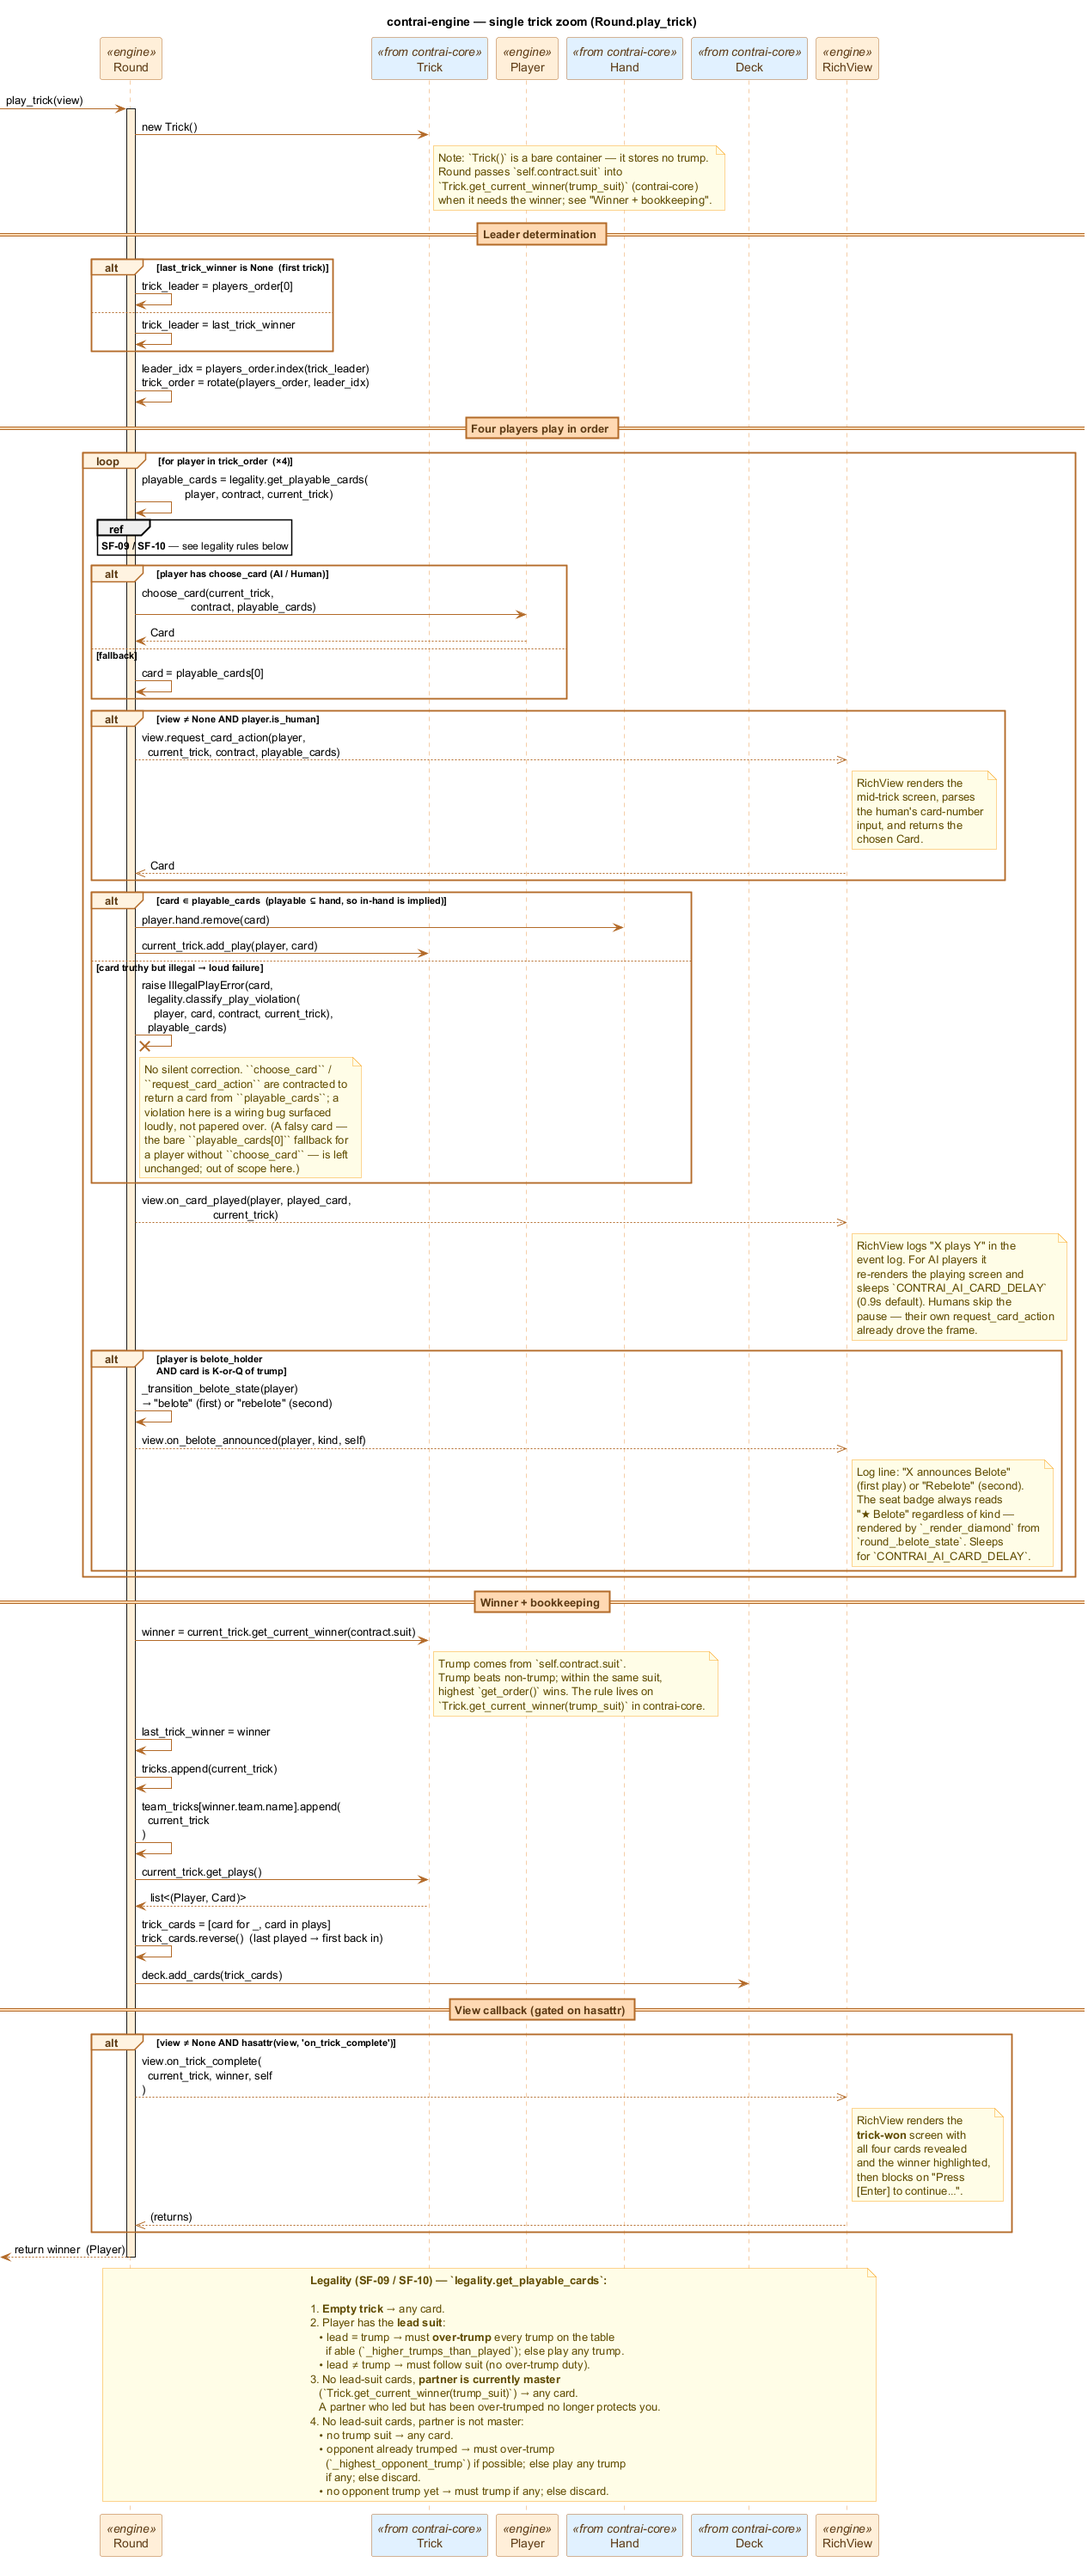
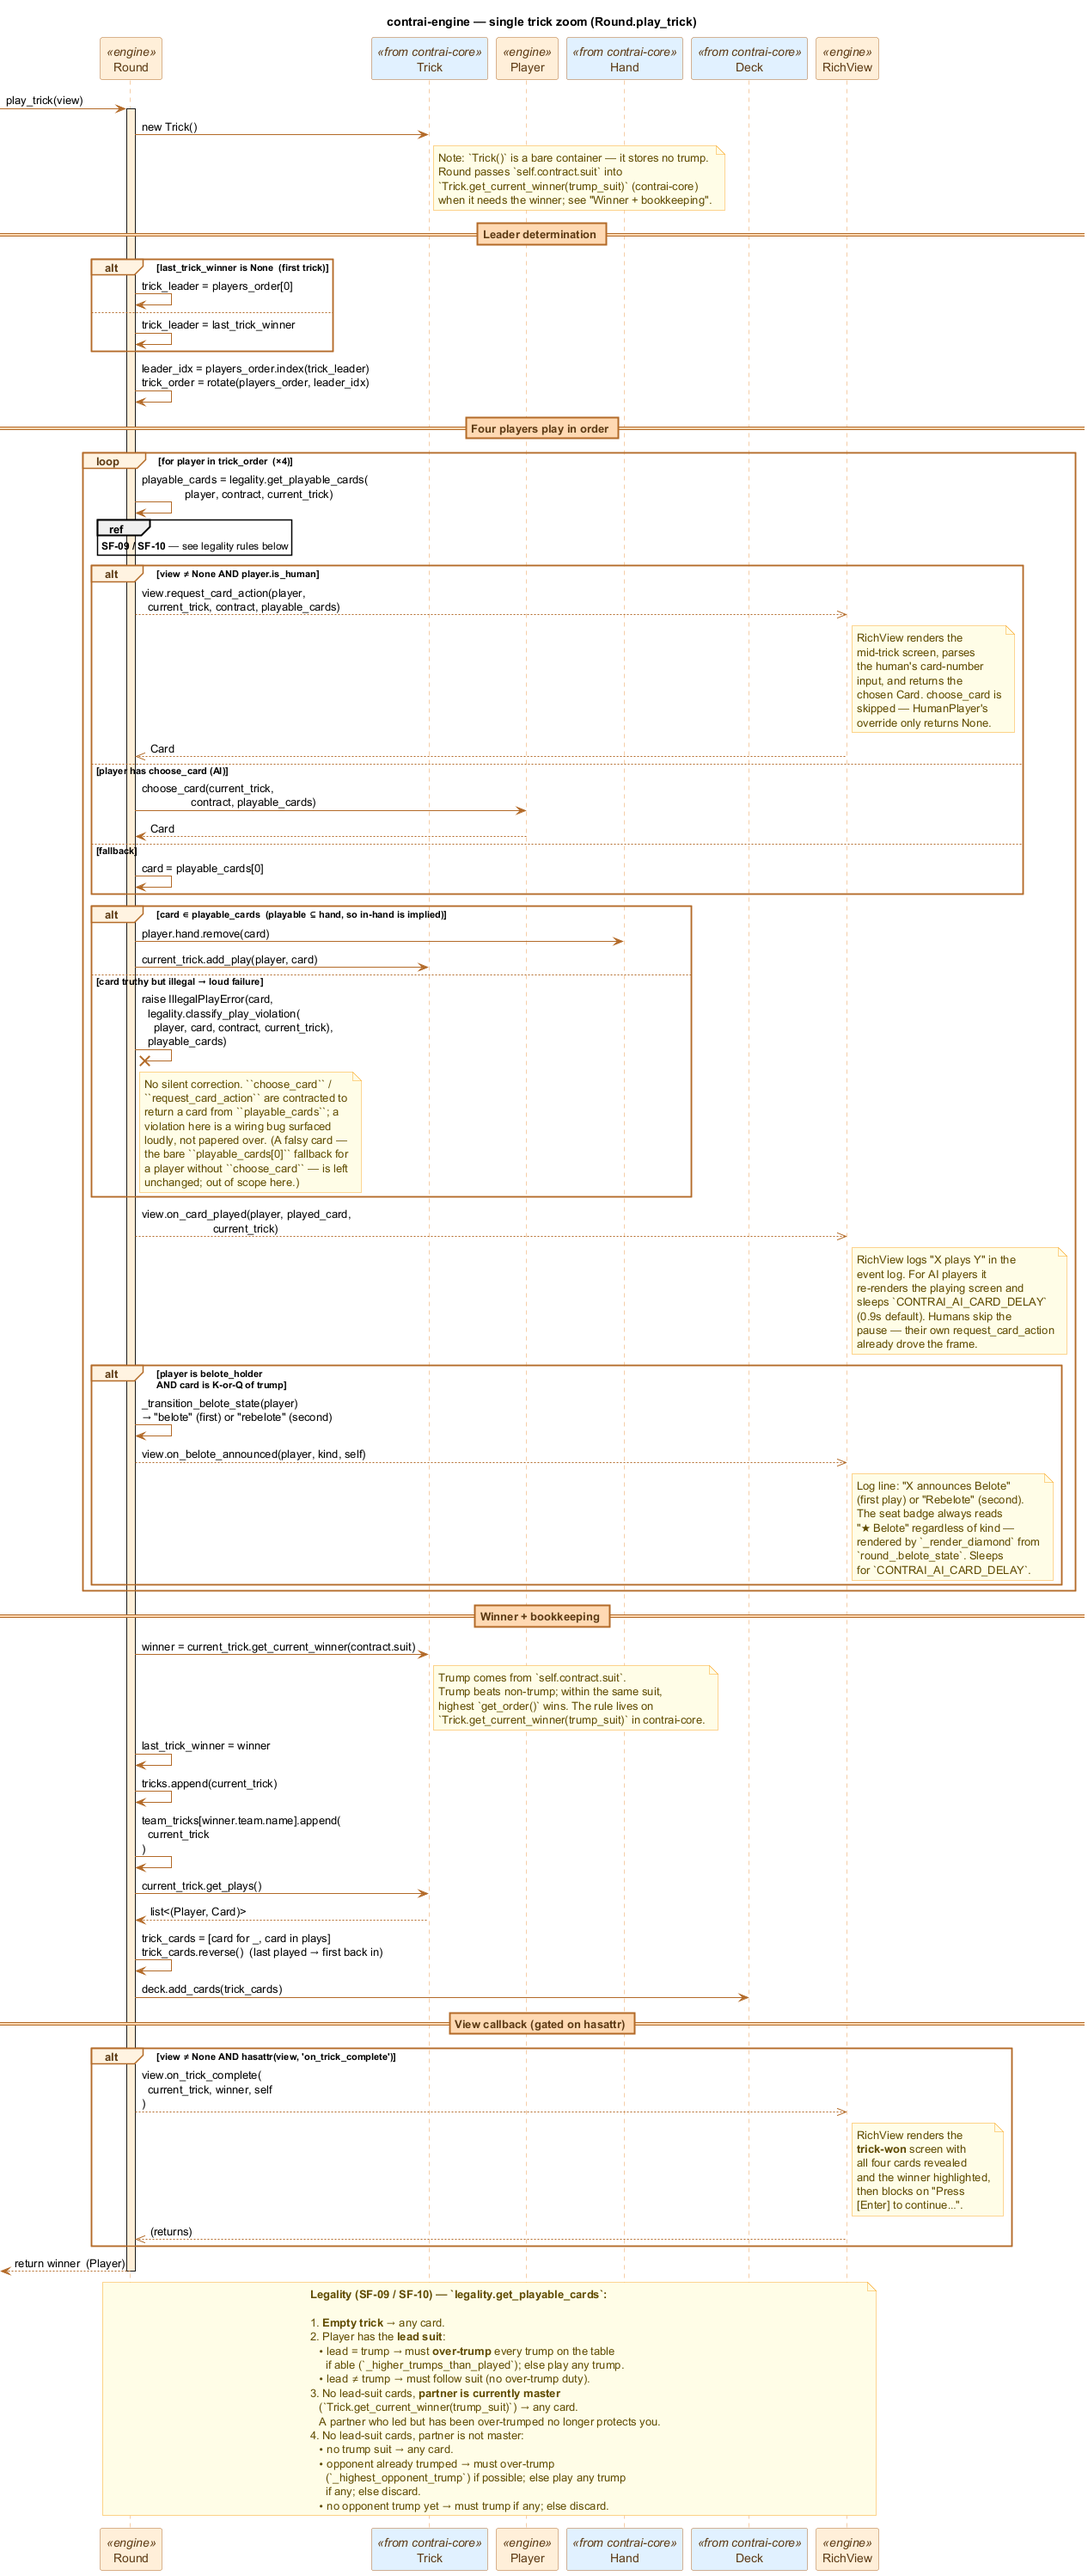
refactor(engine): skip choose_card for humans in the trick loop
Source a human's card straight from the view; only AI/viewless players
go through choose_card. Previously play_trick called HumanPlayer.choose_card
(which always returns None) and immediately overwrote it with the view's
result - a wasted call. Behavior is unchanged. Update seq_trick.puml to
match and add a Round test covering the human/view card path.

diff --git a/packages/contrai-engine/tests/test_model/test_round.py b/packages/contrai-engine/tests/test_model/test_round.py
@@ -22,11 +22,12 @@ from contrai_core import Hand
 from contrai_core.bid import ContractBid, PassBid
 from contrai_core.card import Card
 from contrai_core.contract import Contract
+from contrai_core.team import Team
 from contrai_core.exceptions import IllegalPlayError, PlayRuleViolation
 from contrai_core.trick import Trick
 from contrai_core.types import Rank, Suit
 
-from contrai_engine.model.player import HumanPlayer, wire_to_bid
+from contrai_engine.model.player import AiPlayer, HumanPlayer, wire_to_bid
 from contrai_engine.model.round import Round
 
 
@@ -95,6 +96,66 @@ class TestPlayTrickRejectsIllegalCard:
         assert excinfo.value.card is e_illegal
         assert excinfo.value.reason == PlayRuleViolation.MUST_FOLLOW_SUIT
         assert set(excinfo.value.legal_cards) == {Card(Suit.HEARTS, Rank.ACE)}
+
+
+class TestPlayTrickHumanUsesView:
+    """A human's card is sourced from the view, never from
+    ``HumanPlayer.choose_card`` (which only returns None by design)."""
+
+    def test_human_card_comes_from_view_not_choose_card(self):
+        human = HumanPlayer("H", "North")
+        east = AiPlayer("E", "East")
+        south = AiPlayer("S", "South")
+        west = AiPlayer("W", "West")
+        order = [human, east, south, west]
+        ns = Team("North-South", [human, south])
+        ew = Team("East-West", [east, west])
+        for p in (human, south):
+            p.team = ns
+        for p in (east, west):
+            p.team = ew
+
+        contract = _contract(human, 100, Suit.SPADES)
+        # One heart each so following suit is trivial; human leads.
+        cards = {
+            human: Card(Suit.HEARTS, Rank.KING),
+            east: Card(Suit.HEARTS, Rank.SEVEN),
+            south: Card(Suit.HEARTS, Rank.EIGHT),
+            west: Card(Suit.HEARTS, Rank.NINE),
+        }
+        for player, card in cards.items():
+            player.hand = Hand([card])
+
+        class _StubDeck:
+            def add_cards(self, cards):
+                pass
+
+        round_ = Round(order, dealer=human, deck=_StubDeck(), round_number=1)
+        round_.contract = contract
+
+        # Spy: the human's choose_card must NOT be called on the view path.
+        human_calls = []
+        human.choose_card = (  # type: ignore[method-assign]
+            lambda *args, _calls=human_calls: _calls.append(args)
+        )
+        # Bots play their single legal card straight through choose_card.
+        for player in (east, south, west):
+            player.choose_card = (  # type: ignore[method-assign]
+                lambda trick, c, playable, _card=cards[player]: _card
+            )
+
+        view_calls = []
+
+        class _SpyView:
+            def request_card_action(self, player, trick, contract, playable):
+                view_calls.append(player)
+                return cards[player]
+
+        round_.play_trick(view=_SpyView())
+
+        assert human_calls == []  # choose_card bypassed for the human
+        assert view_calls == [human]  # the view drove the human's turn
+        assert cards[human] not in human.hand  # the chosen card was played
 
 
 # ---------------------------------------------------------------------------

diff --git a/packages/contrai-engine/src/contrai_engine/model/round/round.py b/packages/contrai-engine/src/contrai_engine/model/round/round.py
@@ -258,17 +258,22 @@ class Round:
                 player, self.contract, self.current_trick
             )
 
-            if hasattr(player, 'choose_card'):
-                # AI player or player with choose_card method
+            # Source the card. A human's input is driven by the view —
+            # the model can't block on terminal I/O under MVC — so we
+            # ask the view directly and never call choose_card, whose
+            # HumanPlayer override only returns None. AI players (and any
+            # viewless/headless player) are asked via choose_card, with a
+            # bare first-playable fallback for objects that lack it.
+            if view is not None and getattr(player, 'is_human', False):
+                card = view.request_card_action(
+                    player, self.current_trick, self.contract, playable_cards
+                )
+            elif hasattr(player, 'choose_card'):
                 # Pass playable cards to help AI make legal moves
                 card = player.choose_card(self.current_trick, self.contract, playable_cards)
             else:
                 # Simple fallback: play first playable card
                 card = playable_cards[0] if playable_cards else None
-
-            # If view provided and player is human, use view for input
-            if view and hasattr(player, 'is_human') and player.is_human:
-                card = view.request_card_action(player, self.current_trick, self.contract, playable_cards)
 
             # Validate that the chosen card is legal. An illegal card is
             # surfaced as a loud failure (IllegalPlayError) rather than
